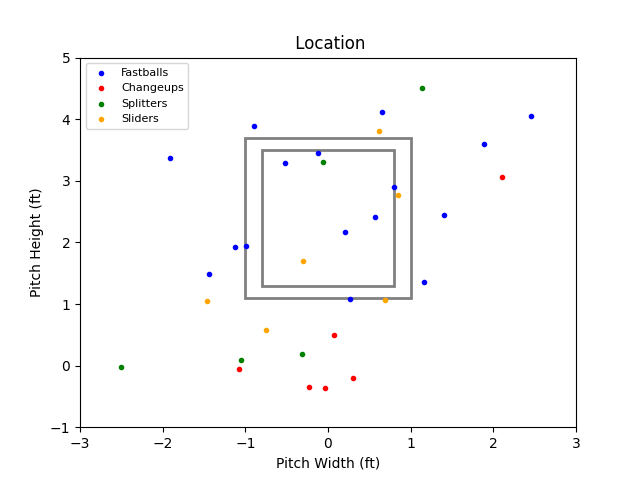
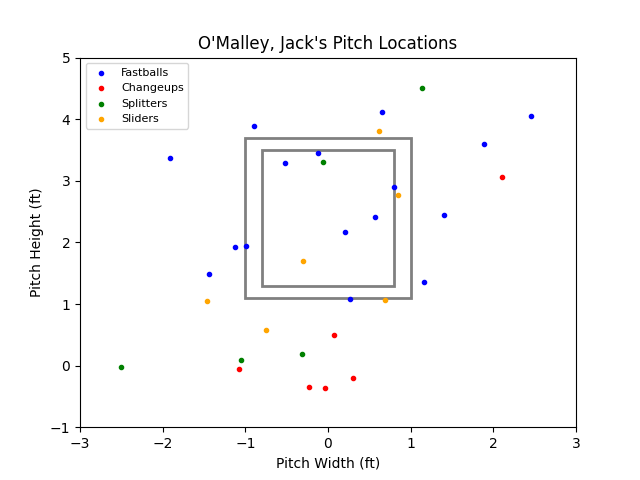
Updating Titles

Changed region(s): [[0.3125, 0.0625, 0.7188, 0.125]]

diff --git a/filereader.py b/filereader.py
@@ -124,7 +124,7 @@ def pltPitches(Player):
   plt.ylabel('Pitch Height (ft)')
 
   #ax.add_patch(Rectangle((1, 1), -1, 1, edgecolor = 'blue', facecolor = 'blue', fill=False, lw=5))
-  plt.title(" Location")
+  plt.title(str(Player.name) + "\'s Pitch Locations")
   plt.xlim(-3, 3)
   plt.ylim(-1, 5)
   plt.legend(fontsize = "8")
